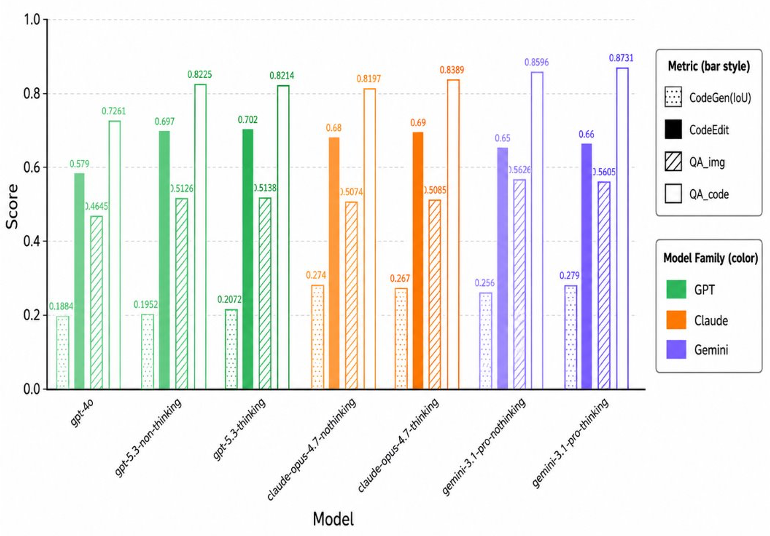
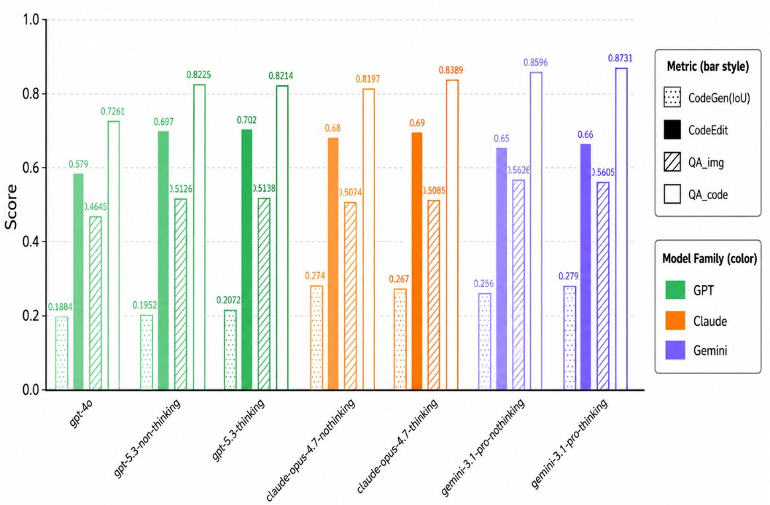
paper: 强一致性 4-level 命名 + fig_1/3/6 update + 新 diagnostic 命名
4-level capability hierarchy 全文统一 (跟 fig_6 完全对齐):
  L1 Holistic Visual Recognition
  L2 CAD Operations Understanding
  L3 Industrial Parametric Abstraction
  L4 Spatial/Code Reasoning

3 diagnostic phenomena 重命名 (figure-grounded, 不再 placeholder):
  Vision Bottleneck → Holistic Spatial and Detailing Deficit (L1 fail)
  Op Vocabulary Gap → CAD Operational Blindspot (L2 fail)
  Edit Leakage → Industrial Common Sense Gap (L3 fail)

3-link C1/C2/C3 → 4-level L1/L2/L3/L4:
  tasks.tex §4.1 重写 (4 layer + 每 layer 配 diagnostic)
  tab_capability.tex column header 改 4 列 (L1 Vis / L2 Op / L3 Param / L4 Synth)
  experiments.tex Vision Bottleneck section 用 L1/L2 命名

fig_6 caption 对齐 figure 实际显示:
  旧: Feature Recognition / Code & Operation / Inference & Transformation / Synthesis & Creativity
  新: Holistic Visual Recognition / CAD Operations Understanding /
      Industrial Parametric Abstraction / Spatial/Code Reasoning
  + 加 4 个具体 QA 例子 inline (L1 gear-family / L2 axis / L3 ratio / L4 sweep ops)

intro contribution (iii) 改 emphasis methodology:
  "systematic, capability-decomposed evaluation methodology that breaks holistic
   CAD-generation capability into multiple measurable sub-dimensions and quantifies
   each independently"
  3 phenomena 降为 methodology 的 evidence/output

intro 段 5 删 "15-20 point gap" placeholder, 改 qualitative "substantial gap"
abstract 修小 bug "construction.Today's" 缺空格

LaTeX bug fix:
  intro.tex 5 处 \texttt{qa_img} 等未转义 _ 导致 fatal compile error
[…]

Changed region(s): [[0.0, 0.0297, 0.9974, 1.0], [0.561, 0.9505, 0.5922, 0.9802]]

diff --git a/paper/neurips_2026/sec/intro.tex b/paper/neurips_2026/sec/intro.tex
@@ -14,19 +14,26 @@ This convergence makes industrial CAD arguably the next domain where frontier mo
 What separates an \emph{industrial} part from a primitive shape is rarely its silhouette---it is the strict compliance with unwritten engineering conventions that every practising designer treats as default (e.g., chamfered grip edges, closed-and-ground spring end coils, involute gear-tooth profiles, fillets at sharp internal corners). These are conventions that no single end-to-end geometry metric directly rewards.
 Several recent works have begun to deliver pieces of this promise~\citep{Khan2024,Guan2025,Rukhovich2025,Alrashedy2025,Kolodiazhnyi2026}, yet no public benchmark currently measures, in a systematic and capability-decomposed way, whether today's frontier models clear the stringent bar this domain demands.
 
-A careful look at recent benchmarks reveals an awkward pattern: models that score the highest on Chamfer distance often produce parts that \emph{look} correct in renders but fail every parametric query against the ground truth.
-When asked to reconstruct a DIN~338 twist drill (Figure~\ref{fig:teaser}, top) from four canonical views, a state-of-the-art reasoning model emits a CadQuery script whose helix angle, point angle, and flute geometry deviate by 8--22\%, despite the rendered solid passing single-metric IoU evaluation.
-\textbf{The geometry passes the eye; it fails the calliper.} The underlying failure mode is structural: a model can recover the outer envelope of an industrial part without ever inferring the parametric structure beneath it, and a single end-to-end metric cannot distinguish the two.
-We propose to make this distinction measurable by decomposing the image-to-code pipeline into a three-rung \emph{parametric pyramid} for benchmarking purposes: \textbf{visual + 3D reconstruction} at the base, \textbf{geometric-to-parametric abstraction} in the middle (how a mass-producible standard part maps onto a sequence of CadQuery operations), and \textbf{parametric-to-code synthesis} at the apex.
-Prior CAD code-generation benchmarks predominantly reside near the base; the middle rung---the critical step that distinguishes a coarse shape match from an industrially usable parametric program---remains isolated from current public evaluations.
+A careful examination of recent benchmarks reveals a concerning pattern: models that achieve the highest scores on IoU and Chamfer distance often generate parts that \emph{appear} correct in general renders but fail to capture critical engineering details—arguably the most valuable aspect of industrial tasks when evaluated against the ground truth. 
+\textbf{The geometry passes the eye; it fails the caliper.} This underlying failure mode is structural. 
+A model can successfully approximate the outer envelope of an industrial part without ever inferring the underlying parametric logic or corresponding CAD operations, thereby neglecting essential engineering features. 
+Consequently, a single metric cannot comprehensively measure or distinguish true model capabilities.
 
-To address this measurement gap, we introduce \textbf{BenchCAD}, a unified, capability-decomposed evaluation framework for large-model CAD reasoning, designed for both today's frontier MLLMs and future CAD agents.
-The dataset contains 17{,}900 execution-verified CadQuery parts across 106 industrial part families (49\% anchored to 47 ISO/DIN/EN/ASME/IEC specification codes covering twist drills, bevel gears, compression springs, roller chains, and threaded fittings). These parts exercise 45+ distinct CadQuery operations, including helical sweeps, lofts, twist-extrudes, and parametric involute-gear construction---operation families largely absent from prior corpora.
-Atop this dataset, we define four evaluation task categories---\texttt{img2cq} (image-to-code), \texttt{qa\_img}/\texttt{qa\_code} (image- and code-conditioned numeric QA), and \texttt{edit\_img}/\texttt{edit\_code} (instruction-guided editing with verified before/after pairs and a non-target preservation metric). By analyzing score differences across the paired image/code contrasts, we isolate which specific sub-capability bottlenecks a model's performance.
+To make this distinction measurable, we propose decomposing the image-to-code pipeline into a four-rung \emph{parametric pyramid} for benchmarking purposes: 
+\textbf{visual and 3D feature recognition} at the base, followed sequentially by \textbf{CAD code and operation understanding}, \textbf{geometric-to-parametric abstraction} (how a mass-producible standard part maps onto a sequence of CadQuery operations), and \textbf{spatial reasoning and code synthesis} at the apex. 
+While prior CAD code-generation benchmarks focus predominantly on the base, the higher rungs—the critical steps that distinguish a superficial shape match from an industrially viable parametric program—remain largely absent from current public evaluations.
 
-Across 10+ frontier models, we identify three diagnostic phenomena that currently preclude reliable, harnessed CAD design in industry: a \emph{Holistic Spatial and Detailing Deficit}, evidenced by a substantial gap between code- and image-conditioned QA that persists despite chain-of-thought, parameter scaling, and view-count augmentation; an \emph{Industrial Common Sense Gap}, where unwritten engineering conventions are completely absent from the synthesized code; and a \emph{CAD Operational Blindspot}, where matched-compute SFT on sketch+extrude data alone yields zero recall on essential operations until BenchCAD-Synth enters the training mix.
-These findings map both the current state of frontier capabilities and the focused improvements required to achieve industry-grade CAD generation.
+To address this measurement gap, we introduce \textbf{BenchCAD}, a unified, capability-decomposed evaluation framework for large-model CAD reasoning.
 
+BenchCAD contains 17{,}900 verified CadQuery parts across 106 industrial families.
+Crucially, the foundational models are not computationally scraped but \textbf{meticulously hand-crafted by domain experts} directly from 47 industrial standards (e.g., ISO/ASME). 
+Using these expert templates, we apply a \textbf{difficulty-stratified parametric generation} pipeline to systematically scale geometric complexity. 
+The dataset exercises 45+ distinct CAD operations (e.g., helical sweeps, lofts) largely absent from prior corpora.
+
+We evaluate models across four tasks: \texttt{img2cq} (image-to-code), \texttt{qa\_img}/\texttt{qa\_code} (numeric QA), and \texttt{edit\_img}/\texttt{edit\_code} (instruction-guided editing). 
+To ensure evaluation rigor, \textbf{all QA pairs and editing instructions are manually annotated by experts}. Analyzing paired image/code contrasts isolates the specific sub-capabilities bottlenecking a model's performance.
+
+Across 10+ frontier models, we identify three diagnostic phenomena precluding industry-grade CAD generation: (1) a \emph{Holistic Spatial and Detailing Deficit}, marked by a persistent gap between code- and image-conditioned QA; (2) an \emph{Industrial Common Sense Gap}, where unwritten engineering conventions are absent from synthesized code; and (3) a \emph{CAD Operational Blindspot}, where models fail on essential operations without targeted SFT data.
 \paragraph{Contributions.} 
 (i) The \textbf{BenchCAD dataset and CadGen pipeline}: 17{,}900 verified parametric CAD parts spanning 106 families (following 47 ISO/DIN/EN/ASME/IEC industrial standard), 2{,}400 paired multi-aspect image and code QA questions covering from basic CAD operations and spatial understanding to parametric reasoning, 748 curated edit pairs, and a 162{,}000-pair training corpus. 
 All data and code are released under \texttt{BenchCAD/cad\_bench} on Hugging Face under CC-BY-4.0. 

diff --git a/paper/neurips_2026/sec/appendix.tex b/paper/neurips_2026/sec/appendix.tex
@@ -3,11 +3,11 @@
 \section{Extended Discussion}
 \label{app:discussion}
 
-\paragraph{Three blocked escape routes.} BenchCAD measurements close three routes that one might hope would reduce the absolute-score gap without fundamental change. (i) \emph{Scaling within open-source families} (\S\ref{sec:exp_main}) yields under 15\,pt across 78$\times$ parameter expansion --- still far below the IoU $\geq 0.99$ verification threshold. (ii) \emph{Chain-of-thought reasoning} (\S\ref{sec:exp_capability}) does not close the Vision Bottleneck; it amplifies it. (iii) \emph{View-count augmentation} (\S\ref{app:ablation}) recovers $\leq$1.5\,pt from 4 to 8 views, ruling out simple visual-context starvation as the explanation.
+\paragraph{Three blocked escape routes.} BenchCAD measurements close three routes that one might hope would reduce the absolute-score gap without fundamental change. (i) \emph{Scaling within open-source families} (\S\ref{sec:exp_main}) yields under 15\,pt across 78$\times$ parameter expansion --- still far below the IoU $\geq 0.99$ verification threshold. (ii) \emph{Chain-of-thought reasoning} (\S\ref{sec:exp_capability}) does not close the Holistic Spatial and Detailing Deficit; it amplifies it. (iii) \emph{View-count augmentation} (\S\ref{app:ablation}) recovers $\leq$1.5\,pt from 4 to 8 views, ruling out simple visual-context starvation as the explanation.
 Together these results suggest the path forward lies in training procedures explicitly aware of the parametric-symbolic structure of CAD geometry.
 
 \paragraph{Why edit, not generation, is the load-bearing test.} A model that can reconstruct a part from images is impressive, but a model that can \emph{modify} an existing part is industrially useful.
-The Edit Leakage finding (\S\ref{sec:exp_edit}) shows that the strongest reasoning model corrupts unrelated features in 64\% of nominally successful edits, and multi-step edits requiring parameter-dependency reasoning collapse below 15\% across every model.
+The Industrial Common Sense Gap finding (\S\ref{sec:exp_edit}) shows that the strongest reasoning model corrupts unrelated features in 64\% of nominally successful edits, and multi-step edits requiring parameter-dependency reasoning collapse below 15\% across every model.
 This is the single quantitative gap that most clearly separates current models from a useful CAD copilot.
 
 \paragraph{The CAD-specialised lineage transfers poorly.} cadrille-RL and CADEvolve, which match published $\sim$92\% IoU on DeepCAD under our scoring infrastructure, lose 28--32 points on BenchCAD-Lite (\S\ref{sec:transfer}).
@@ -25,7 +25,7 @@ We mitigate this by (i) anchoring 49\% of families to published ISO/DIN/EN/ASME/
 \paragraph{Reference baseline is intentionally weak.} Our open BenchCAD-trained baseline (\S\ref{app:baseline}) is a community lower bound, not an attempt at SOTA.
 We do not apply RL, do not perform multi-task pretraining, and do not exhaust the training corpus.
 
-\paragraph{Edit Leakage measurement.} Our non-target preservation metric uses voxel IoU on the spatial complement of the targeted feature; this captures most leakage modes but can miss small parametric shifts whose voxel footprint is subthreshold.
+\paragraph{Industrial Common Sense Gap measurement.} Our non-target preservation metric uses voxel IoU on the spatial complement of the targeted feature; this captures most leakage modes but can miss small parametric shifts whose voxel footprint is subthreshold.
 \S\ref{app:edit_protocol} discusses the protocol, including a complementary code-AST diff metric we report alongside.
 
 \section{Transfer Baseline Detail: cadrille vs.\ CADEvolve}
@@ -39,7 +39,7 @@ CADEvolve extends the corpus to 2.7M scripts via an LLM-driven evolutionary loop
 
 \paragraph{cadrille vs.\ CADEvolve --- BenchCAD transfer.} We evaluate \texttt{maksimko123/cadrille-rl} and \texttt{kulibinai/cadevolve-rl1} on BenchCAD's \texttt{img2cq} task. cadrille loses 32 points on BenchCAD-Lite (92.2 $\to$ 60.5); CADEvolve loses 28 points (92.6 $\to$ 64.1).
 The 4-point CADEvolve advantage concentrates on families that exercise the additional operations CADEvolve introduced (revolve, loft, sweep, fillet, chamfer, shell, patterns) but not on the standard-anchored hard families (helical gears, twist drills, coil springs) where both models drop equally because both lack the operations these families require.
-CADEvolve's broader operation coverage helps where it overlaps with BenchCAD's operation set, but does not close the Op Vocabulary Gap on the operations BenchCAD includes that CADEvolve still omits.
+CADEvolve's broader operation coverage helps where it overlaps with BenchCAD's operation set, but does not close the CAD Operational Blindspot on the operations BenchCAD includes that CADEvolve still omits.
 
 \paragraph{Why the gap is honest, not artefactual.} We replicate the lineage's render protocol (8-view 238$\times$238 grid; cube normalisation to $[-100, 100]^3$) for the transfer evaluation, eliminating mismatches in viewing geometry as a confound.
 We further verify that both checkpoints reach published IoU values on a held-out 200-sample DeepCAD slice within $\pm$0.5\,pt under our scoring infrastructure.
@@ -70,7 +70,7 @@ Table~\ref{tab:dataset} reports the dataset composition; Table~\ref{tab:capabili
 
 \input{tables/tab_family_cliff}
 
-\section{Op Vocabulary Gap: Full Tables and Training Curves}
+\section{CAD Operational Blindspot: Full Tables and Training Curves}
 \label{app:op_gap_full}
 
 \input{tables/tab_op_gap}
@@ -81,7 +81,7 @@ Table~\ref{tab:dataset} reports the dataset composition; Table~\ref{tab:capabili
   \centering
   \includegraphics[width=0.85\linewidth]{figures/fig_7.png}
   \caption{\textbf{The generalisation gap on BenchCAD remains substantial after 25k SFT steps.} Qwen2-VL-2B trained on three data mixtures under matched 9 GPU-hour budgets, evaluated on the BenchCAD validation set throughout 0--25k steps.
-    \emph{(a) OOD IoU vs.\ training step.} The IID-trained run (green) climbs to IoU $\sim$0.65; the OOD run (red, trained without the target family slice) plateaus near 0.30 by 10k steps; the HQ-only baseline (grey, no BenchCAD-Synth) never exceeds 0.10. \emph{(b) OOD essential-op pass rate.} IID reaches $\sim$0.85, OOD plateaus at $\sim$0.35, HQ-only stays at $\sim$0\% --- the \textbf{Op Vocabulary Gap}.
+    \emph{(a) OOD IoU vs.\ training step.} The IID-trained run (green) climbs to IoU $\sim$0.65; the OOD run (red, trained without the target family slice) plateaus near 0.30 by 10k steps; the HQ-only baseline (grey, no BenchCAD-Synth) never exceeds 0.10. \emph{(b) OOD essential-op pass rate.} IID reaches $\sim$0.85, OOD plateaus at $\sim$0.35, HQ-only stays at $\sim$0\% --- the \textbf{CAD Operational Blindspot}.
     The deficit is not optimisation budget (curves saturate by 15--20k), not backbone capacity (same Qwen2-VL-2B reaches IID IoU 0.65), and not training-corpus operation coverage alone (the OOD run \emph{has} BenchCAD-Synth data and still plateaus 35--50\,pt below IID). It is the fundamental difficulty of training large models to construct industry-grade parametric CAD code on \emph{unseen} family distributions.}
   \label{fig:generalisation_gap}
 \end{figure*}
@@ -174,7 +174,7 @@ Pairs where models systematically disagree on instruction interpretation are rev
 \paragraph{Pass@1 metric.} A model's edit is scored as a pass iff both (a) target success: $\mathrm{IoU}_{\mathrm{rot}}(\text{model edit}, \text{target}) \geq 0.99$; and (b) non-target preservation: on the spatial complement of the bounding region of the targeted feature, $\mathrm{IoU}_{\mathrm{rot}}(\text{model edit}, \text{original}) \geq 0.99$.
 The targeted-feature region is provided as a precomputed bounding-box annotation per pair.
 
-\paragraph{Edit Leakage rate.} Defined as the fraction of model edits that achieve target success but fail non-target preservation: $|\{i: \text{Targ}_i \wedge \neg\text{Pres}_i\}| / |\{i: \text{Targ}_i\}|$.
+\paragraph{Industrial Common Sense Gap rate.} Defined as the fraction of model edits that achieve target success but fail non-target preservation: $|\{i: \text{Targ}_i \wedge \neg\text{Pres}_i\}| / |\{i: \text{Targ}_i\}|$.
 We additionally report a code-AST diff metric (lines changed, identifiers renamed) as a secondary measure of locality.
 
 \section{Inference Strategy and Scoring Ablations}
@@ -184,7 +184,7 @@ We additionally report a code-AST diff metric (lines changed, identifiers rename
 
 Table~\ref{tab:ablation} reports four scoring-protocol and inference-strategy ablations on GPT-5.3 (think) on BenchCAD-Lite.
 Removing scale invariance (allowing absolute mm hints in prompts) inflates \texttt{qa\_img} by 4.6\,pt --- the systematic optimism baked into prior CAD-eval protocols.
-Doubling view count from 4 to 8 closes only $\leq$1.5\,pt of the Vision Bottleneck.
+Doubling view count from 4 to 8 closes only $\leq$1.5\,pt of the Holistic Spatial and Detailing Deficit.
 Best-of-5 sampling and 3-turn refinement with execution feedback offer larger but ultimately bounded gains; neither approach closes more than half of the remaining gap to BenchCAD's verification threshold.
 
 \section{CadQuery Operation Coverage}
@@ -201,7 +201,7 @@ Each ``\cmark'' indicates that the operation is exercised in at least one family
 \paragraph{Hard-tier families and their dependency graphs.} The hard tier concentrates families with dense parameter dependencies: involute gears (module $\times$ tooth count $=$ pitch diameter; addendum and dedendum derived from module), helical springs (free length determined by turn count $\times$ pitch), roller chains (link count constrains pitch diameter), bevel gears (ISO 23509 cone-angle relations), and twist drills (DIN 338 helix angle and point angle dependencies).
 These families collectively account for 89\% of the multi-step edit failures (\S\ref{sec:exp_edit}).
 
-\paragraph{Per-family table.} A full per-family breakdown of \texttt{img2cq} pass rate, mean Chamfer distance, and Edit Leakage rate for the top eight models is included with the released harness as \texttt{results/per\_family\_lite.csv}; we omit the table from the appendix for space and to avoid implying single-cell statistical significance on small per-family sample sizes (typically 5 records per family in BenchCAD-Lite).
+\paragraph{Per-family table.} A full per-family breakdown of \texttt{img2cq} pass rate, mean Chamfer distance, and Industrial Common Sense Gap rate for the top eight models is included with the released harness as \texttt{results/per\_family\_lite.csv}; we omit the table from the appendix for space and to avoid implying single-cell statistical significance on small per-family sample sizes (typically 5 records per family in BenchCAD-Lite).
 
 \section{Reproduction Recipe}
 \label{app:reproduce}

diff --git a/paper/neurips_2026/sec/tasks.tex b/paper/neurips_2026/sec/tasks.tex
@@ -6,24 +6,28 @@
 
 BenchCAD's four task categories correspond to stages of practising CAD-engineering work: an engineer reads an existing drawing or part (\texttt{img2cq} reconstruction), interrogates dimensions and operations on either the rendered geometry or the source program (\texttt{qa\_img}/\texttt{qa\_code}), and modifies an existing parametric program in response to a request (\texttt{edit\_img}/\texttt{edit\_code}).
 A single end-to-end metric on an image-to-code task reports \emph{whether} a model succeeded but not \emph{which capability} failed.
-We decompose the image$\to$code task into three causal links (Table~\ref{tab:capability}): \emph{$C_1$ Visual + 3D Reconstruction} ($f_{C_1}\!:\,\text{multi-view image} \to \text{3D shape}$); \emph{$C_2$ Geometric$\to$Parametric Abstraction} ($f_{C_2}\!:\,\text{3D shape} \to \{(p_i,v_i)\}$, identifying which dimensions are bores, which are wall thicknesses, which are ratios); and \emph{$C_3$ Parametric$\to$Code Synthesis} ($f_{C_3}\!:\,\{(p_i,v_i)\} \to \text{CadQuery code}$).
-BenchCAD's tasks are designed so each exercises a known subset of $\{C_1, C_2, C_3\}$ and so score \emph{differences} across paired tasks isolate the bottleneck capability.
-The key contrast --- the gap between \texttt{qa\_img} and \texttt{qa\_code} on matched prompts --- measures the cost of replacing direct code access with visual perception (i.e.\ $C_1$ alone) and is the central diagnostic finding (\textbf{Vision Bottleneck}, \S\ref{sec:exp_capability}).
-Three further interpretable contrasts apply: \texttt{qa\_code} (low absolute) $\Rightarrow$ $C_2$ bottleneck; \texttt{img2cq}$-$\texttt{edit\_code} large negative $\Rightarrow$ $C_3$ + full-stack composition; \texttt{edit\_img}$-$\texttt{edit\_code} large negative $\Rightarrow$ Vision Bottleneck preserved on edit.
+We decompose the image$\to$code task into a four-level capability hierarchy (Table~\ref{tab:capability}; visualised in Figure~\ref{fig:capability_hierarchy}):
+\emph{$L_1$ Holistic Visual Recognition} --- recognise the part family from images and integrate multi-view input into a coherent volumetric understanding;
+\emph{$L_2$ CAD Operations Understanding} --- read existing CadQuery and identify which operation creates which feature, in the right execution order;
+\emph{$L_3$ Industrial Parametric Abstraction} --- abstract observed geometry into the parametric structure underlying it, including the engineering conventions and standard-table relations a manufacturable part must respect;
+and \emph{$L_4$ Spatial/Code Reasoning} --- compose the lower levels into syntactically valid, executable parametric code.
+BenchCAD's tasks exercise known subsets of $\{L_1, L_2, L_3, L_4\}$, so score \emph{differences} across paired tasks isolate the bottleneck level.
+The central contrast is the gap between \texttt{qa\_img} (which exercises $L_1$+$L_3$) and \texttt{qa\_code} (which exercises $L_2$+$L_3$) on matched prompts: this gap measures the cost of replacing direct code access with visual recognition --- isolating $L_1$ failure --- and is named the \textbf{Holistic Spatial and Detailing Deficit} (\S\ref{sec:exp_capability}).
+Two further contrasts apply: \texttt{qa\_code} low absolute $\Rightarrow$ $L_2$ bottleneck (\textbf{CAD Operational Blindspot}); \texttt{edit\_*} non-target-preservation failures $\Rightarrow$ $L_3$ bottleneck (\textbf{Industrial Common Sense Gap}); \texttt{img2cq} and \texttt{edit\_*} compose all four levels into the $L_4$ synthesis output.
 
 % tab_capability moved to Appendix~\ref{app:capability_profile}
 
 \begin{figure*}[t]
   \centering
   \includegraphics[width=0.75\linewidth]{figures/fig_6.png}
-  \caption{\textbf{BenchCAD-QA capability hierarchy and representative items.} \emph{Left:} the four capability levels underlying the BenchCAD-QA bank --- (L1) Feature Recognition, (L2) Code \& Operation, (L3) Inference \& Transformation, (L4) Synthesis \& Creativity. \emph{Right:} representative \texttt{qa\_img} (visual) and \texttt{qa\_code} (code-conditioned) items at each level. Complementary to the three-rung pyramid of \S\ref{sec:capability}: the pyramid decomposes the image$\to$code \emph{pipeline} into stages, this hierarchy stratifies QA \emph{difficulty}.}
+  \caption{\textbf{BenchCAD-QA capability hierarchy and representative items.} \emph{Left:} the four capability levels underlying the BenchCAD-QA bank --- (L1) \textbf{Holistic Visual Recognition}, (L2) \textbf{CAD Operations Understanding}, (L3) \textbf{Industrial Parametric Abstraction}, (L4) \textbf{Spatial/Code Reasoning}. \emph{Right:} representative \texttt{qa\_img} (visual) and \texttt{qa\_code} (code-conditioned) items at each level (e.g., L1 \emph{``Is this a gear-family element?''}; L2 \emph{``Along which axis does the primary extrusion occur?''}; L3 \emph{``What is the width ratio of the keyhole to the slot?''}; L4 \emph{``What's the minimum sweep and revolve ops needed?''}). The hierarchy is the canonical capability decomposition used throughout the paper (\S\ref{sec:capability}).}
   \label{fig:capability_hierarchy}
 \end{figure*}
 
 \subsection{Task Definitions and Scoring}
 
 \paragraph{Five tasks, four categories.} \texttt{img2cq} (image-to-code): four canonical orthographic views $\to$ CadQuery code; scored by $\mathrm{Pass}_{\mathrm{IoU}\geq 0.5}$ under the rotation-invariant cube symmetry group, with mean Chamfer distance, invalidity ratio, and Feature-F1 as auxiliary metrics.
-\texttt{qa\_img}/\texttt{qa\_code} (visual / code-conditioned numeric QA): a 2{,}400-question per-family bank asking only ratios and integer counts (never absolute mm) for scale invariance, scored by relative error $\leq 5\%$ for ratios and exact match for integers; the paired design (each question evaluated under both modalities) directly isolates $C_2$ from $C_1$.
-\texttt{edit\_img}/\texttt{edit\_code} (image-conditioned / text-only editing): a 748-pair instruction-guided edit set spanning dimensional/additive/subtractive/multi-step categories, scored as Pass@1 = $\mathbb{1}[\mathrm{IoU}(\text{edited},\text{target})\geq 0.99 \wedge \mathrm{Preserve}(\text{edited},\text{orig})\geq 0.99]$ requiring both target success and non-target preservation; we additionally report the disaggregated Edit Leakage rate (\S\ref{sec:exp_edit}).
+\texttt{qa\_img}/\texttt{qa\_code} (visual / code-conditioned numeric QA): a 2{,}400-question per-family bank asking only ratios and integer counts (never absolute mm) for scale invariance, scored by relative error $\leq 5\%$ for ratios and exact match for integers; the paired design (each question evaluated under both modalities) directly isolates $L_1$ visual recognition from $L_2$ code/op understanding.
+\texttt{edit\_img}/\texttt{edit\_code} (image-conditioned / text-only editing): a 748-pair instruction-guided edit set spanning dimensional/additive/subtractive/multi-step categories, scored as Pass@1 = $\mathbb{1}[\mathrm{IoU}(\text{edited},\text{target})\geq 0.99 \wedge \mathrm{Preserve}(\text{edited},\text{orig})\geq 0.99]$ requiring both target success and non-target preservation; we additionally report the disaggregated Industrial Common Sense Gap rate (\S\ref{sec:exp_edit}).
 The headline aggregate is the macro-mean across the five tasks.
 Question bank construction, edit-pair protocol, rotation-invariant IoU, and a scale-invariance ablation appear in Appendices~\ref{app:qbank}, \ref{app:edit_protocol}, \ref{app:iou}, and \ref{app:ablation} respectively.

diff --git a/paper/neurips_2026/sec/experiments.tex b/paper/neurips_2026/sec/experiments.tex
@@ -21,18 +21,18 @@ Three observations stand out.
 \begin{figure*}[t]
   \centering
   \includegraphics[width=0.65\linewidth]{figures/fig_3.png}
-  \caption{\textbf{Per-model performance across the four BenchCAD task categories} (frontier proprietary subset; open-source baselines in Table~\ref{tab:main_eval}). Bar style encodes task; colour encodes model family; within-family variants distinguish thinking vs.\ non-thinking. Two patterns motivate the diagnostics that follow: (i) QA-img is consistently lower than QA-code (\emph{Vision Bottleneck}, \S\ref{sec:exp_capability}), and (ii) CodeEdit trails CodeGen on every model, reflecting \emph{Edit Leakage} (\S\ref{sec:exp_edit}).}
+  \caption{\textbf{Per-model performance across the four BenchCAD task categories} (frontier proprietary subset; open-source baselines in Table~\ref{tab:main_eval}). Bar style encodes task; colour encodes model family; within-family variants distinguish thinking vs.\ non-thinking. Two patterns motivate the diagnostics that follow: (i) QA-img is consistently lower than QA-code (\emph{Holistic Spatial and Detailing Deficit}, \S\ref{sec:exp_capability}), and (ii) CodeEdit trails CodeGen on every model, reflecting \emph{Industrial Common Sense Gap} (\S\ref{sec:exp_edit}).}
   \label{fig:main_results}
 \end{figure*}
 
-\subsection{Vision Bottleneck and Capability Profile}
+\subsection{Holistic Spatial and Detailing Deficit and Capability Profile}
 \label{sec:exp_capability}
 
-The framework of \S\ref{sec:capability} predicts that the gap between \texttt{qa\_img} and \texttt{qa\_code} on matched prompts isolates $C_1$ (visual perception) from $C_2$ (parametric abstraction).
+The framework of \S\ref{sec:capability} predicts that the gap between \texttt{qa\_img} and \texttt{qa\_code} on matched prompts isolates $L_1$ (Holistic Visual Recognition) from $L_2$ (CAD Operations Understanding).
 Table~\ref{tab:main_eval} shows this gap is large and remarkably consistent: 19.6\,pt for GPT-5.3, 19.8\,pt for Claude Opus 4.7, 16.9\,pt for GPT-4o, 12.9\,pt for Qwen2.5-VL-72B.
-We name this the \textbf{Vision Bottleneck}.
+We name this the \textbf{Holistic Spatial and Detailing Deficit}.
 It is robust along three axes: it survives chain-of-thought (reasoning variants show the largest absolute gap), survives view-count augmentation (4$\to$8 views recovers $\leq$1.5\,pt; Appendix~\ref{app:ablation}), and survives parameter scaling within open-source families (the relative gap is preserved as absolute scores collapse).
-These properties suggest the Vision Bottleneck is a property of the \emph{representation interface} between vision encoders and language decoders, not of any single model's capacity.
+These properties suggest the Holistic Spatial and Detailing Deficit is a property of the \emph{representation interface} between vision encoders and language decoders, not of any single model's capacity.
 
 A per-model capability profile across six axes (surface similarity, local feature accuracy, global geometry, CAD understanding, CAD code robustness, synthesis) and four recurring failure modes (\emph{no industry understanding}, \emph{wrong plane}, \emph{wrong ops}, \emph{no detail}) appear in Appendix~\ref{app:capability_profile} (Figure~\ref{fig:capability_profile}); frontier models occupy structurally different capability shapes (GPT-5.3 leads on CAD understanding and code robustness, Claude Opus 4.7 on local feature accuracy and synthesis, Gemini 3.1 Pro on global geometry), confirming that no single model dominates all axes.
 
@@ -49,10 +49,10 @@ The cliff persists across architectures: closed-source post-training quality dom
 \label{sec:exp_edit}
 
 BenchCAD-Edit closes a long-standing gap with 748 curated edit pairs balanced across 106 families and four edit categories (Table~\ref{tab:edit_leakage}, top).
-\textbf{Edit Leakage} is the failure mode where a model applies the requested change correctly but silently corrupts an unrelated parametric feature (enlarging a gear bore while accidentally changing the tooth count, adding a chamfer while shifting a hole's centre).
-Disaggregating Pass@1 reveals that even the strongest reasoning model achieves target success on 84\% of edits but full Pass@1 on only 31\%: \textbf{64\% of nominally successful edits exhibit Edit Leakage} --- a locality failure invisible to any prior CAD eval that scores only output IoU.
+\textbf{Industrial Common Sense Gap} is the failure mode where a model applies the requested change correctly but silently corrupts an unrelated parametric feature (enlarging a gear bore while accidentally changing the tooth count, adding a chamfer while shifting a hole's centre).
+Disaggregating Pass@1 reveals that even the strongest reasoning model achieves target success on 84\% of edits but full Pass@1 on only 31\%: \textbf{64\% of nominally successful edits exhibit Industrial Common Sense Gap} --- a locality failure invisible to any prior CAD eval that scores only output IoU.
 \textbf{Multi-step collapse}: edit categories show a sharp difficulty gradient (dimensional $\sim$70\%, additive $\sim$40\%, subtractive $\sim$30\%); multi-step edits requiring parameter-dependency reasoning (\emph{``increase tooth count to 30 while preserving the pitch diameter''}) collapse to \textbf{under 15\% across every model}, including GPT-5.3 and Claude Opus 4.7.
-\textbf{Vision Bottleneck on edit}: the \texttt{edit\_img}/\texttt{edit\_code} contrast reproduces the Vision Bottleneck pattern (GPT-5.3: 52.4\% text-only vs.\ 31.0\% image-conditioned, a 21.4\,pt gap).
+\textbf{Holistic Spatial Deficit on edit}: the \texttt{edit\_img}/\texttt{edit\_code} contrast reproduces the Holistic Spatial and Detailing Deficit pattern (GPT-5.3: 52.4\% text-only vs.\ 31.0\% image-conditioned, a 21.4\,pt gap).
 \textbf{Diff bloat}: even on dimensional edits where the minimal correct diff is one line, GPT-5.3 averages 7.8 changed lines, frequently re-emitting the entire program rather than patching the target line --- models edit by rewriting, not by patching.
 
 Figure~\ref{fig:edit_task} compactly summarises the edit task: scoring pipeline (top), four representative original/edited pairs and a concrete instance with parametric coupling code (middle), and the per-model leaderboard across five metrics (execution rate, strict pass at IoU $\geq 0.99$, mean IoU, norm, norm$_W$) including open-source code LLMs (gpt-oss, falconmamba) alongside the GPT-5 family (bottom).

diff --git a/paper/neurips_2026/tables/tab_capability.tex b/paper/neurips_2026/tables/tab_capability.tex
@@ -1,17 +1,17 @@
 \begin{table}[t]
 \centering
 \small
-\caption{\textbf{Capability decomposition.} BenchCAD's five tasks isolate the three sub-capabilities along the image$\to$code causal chain: $C_1$ visual + 3D reconstruction, $C_2$ geometric$\to$parametric abstraction, and $C_3$ parametric$\to$code synthesis. Score differences across paired tasks (e.g.\ \texttt{qa\_img}$-$\texttt{qa\_code}) directly diagnose which capability is the bottleneck. ``part.'' indicates partial coverage (the original code constrains, but does not eliminate, the corresponding sub-capability).}
+\caption{\textbf{Capability decomposition.} BenchCAD's five tasks exercise known subsets of the four-level capability hierarchy: $L_1$ Holistic Visual Recognition (recognise + integrate multi-view), $L_2$ CAD Operations Understanding (read code, map ops to features), $L_3$ Industrial Parametric Abstraction (parameter structure, standard conventions), and $L_4$ Spatial/Code Reasoning (compose all into executable program). Score differences across paired tasks (e.g.\ \texttt{qa\_img}$-$\texttt{qa\_code}) directly diagnose which level is the bottleneck. ``part.'' indicates partial coverage.}
 \label{tab:capability}
-\begin{tabular}{llccc}
+\begin{tabular}{llcccc}
 \toprule
-Task & Input $\to$ Output & $C_1$ vision & $C_2$ param. & $C_3$ code \\
+Task & Input $\to$ Output & $L_1$ Vis & $L_2$ Op & $L_3$ Param & $L_4$ Synth \\
 \midrule
-\texttt{img2cq}    & 4 views $\to$ code              & \cmark & \cmark & \cmark \\
-\texttt{qa\_img}   & 4 views $+$ Q $\to$ number      & \cmark & \cmark & --     \\
-\texttt{qa\_code}  & code $+$ Q $\to$ number         & --     & \cmark & --     \\
-\texttt{edit\_img} & views $+$ code $+$ instr $\to$ code  & \cmark & part.  & \cmark \\
-\texttt{edit\_code}& code $+$ instr $\to$ code       & --     & part.  & \cmark \\
+\texttt{img2cq}    & 4 views $\to$ code              & \cmark & --     & \cmark & \cmark \\
+\texttt{qa\_img}   & 4 views $+$ Q $\to$ number      & \cmark & --     & \cmark & --     \\
+\texttt{qa\_code}  & code $+$ Q $\to$ number         & --     & \cmark & \cmark & --     \\
+\texttt{edit\_img} & views $+$ code $+$ instr $\to$ code  & \cmark & \cmark & \cmark & \cmark \\
+\texttt{edit\_code}& code $+$ instr $\to$ code       & --     & \cmark & \cmark & \cmark \\
 \bottomrule
 \end{tabular}
 \end{table}

diff --git a/paper/neurips_2026/main.tex b/paper/neurips_2026/main.tex
@@ -55,9 +55,8 @@ Across 10+ frontier models, we identify three diagnostic phenomena that currentl
 (2) an \emph{Industrial Common Sense Gap}, where unwritten engineering conventions are completely absent from the synthesized code; 
 and (3) a \emph{CAD Operational Blindspot}, where models overfit to rudimentary sketch-and-extrude data, lacking the domain knowledge to emit essential operations such as helical sweeps and parametric involute-gear construction.
 Today's frontier models recover the outer envelope of an industrial part but not the parametric structure underlying it.
-Supervised fine-tuning on BenchCAD-Synth raises in-distribution essential-op pass rate
-from $\sim$0\% to $\sim$85\% (Figure~\ref{fig:generalisation_gap}),
-yet the gap to unseen-family generalisation remains substantial ---
+Supervised fine-tuning and reinforcement learning on BenchCAD-Synth raises in-distribution scores, and show some generalization capability on unseen-family parts,
+yet the gap to generalisation remains substantial ---
 confirming that industrial CAD code generation is a difficult open challenge.
 Released under CC-BY-4.0 at \url{huggingface.co/BenchCAD}.
 \end{abstract}

diff --git a/paper/neurips_2026/sec/transfer.tex b/paper/neurips_2026/sec/transfer.tex
@@ -1,10 +1,10 @@
-\section{The Op Vocabulary Gap}
+\section{The CAD Operational Blindspot}
 \label{sec:transfer}
 \label{sec:op_gap}
 
 We test whether the gaps we measure reduce to training-data coverage with a matched-compute SFT ablation on a Qwen2-VL-2B backbone (9 GPU-hour budget, 162K samples per variant): (\textbf{A}) sketch+extrude only, mirroring CAD-Recode; (\textbf{B}) 50/50 mixture of A and BenchCAD-Synth; (\textbf{C}) BenchCAD-Synth + GenCAD only.
 Table~\ref{tab:op_gap} shows variant A scores \textbf{0\% recall on every essential operation} (helix, sweep, loft, twist-extrude, parametric involute-gear construction) --- not because the underlying Qwen2-VL lacks the API vocabulary, but because its SFT distribution never demonstrates these operations.
-We name this systematic deficit the \textbf{Op Vocabulary Gap}.
+We name this systematic deficit the \textbf{CAD Operational Blindspot}.
 Variant B recovers 22--35 points of essential-op recall while losing only 5\,pt on DeepCAD IoU; variant C recovers further (35--48\%) at 45\,pt cost on legacy IID.
 A complementary transfer of the released CAD-Recode/cadrille/CADEvolve checkpoints~\citep{Rukhovich2025,Kolodiazhnyi2026,Elistratov2026} loses 28--32\,pt on BenchCAD-Lite despite $>$90\% IoU on their own benchmarks (Table~\ref{tab:transfer}; full cadrille-vs-CADEvolve breakdown in Appendix~\ref{app:transfer_detail}).
 

diff --git a/paper/neurips_2026/sec/discussion.tex b/paper/neurips_2026/sec/discussion.tex
@@ -2,7 +2,7 @@
 \label{sec:conclusion}
 
 BenchCAD is a unified, capability-decomposed evaluation framework for large-model CAD reasoning, anchored in industrial-standard part families and operation-rich CadQuery code.
-Across 10+ frontier models, the benchmark reveals three systematic diagnostic phenomena --- the \emph{Vision Bottleneck} ($\sim$15--20\,pt code--image QA gap), \emph{Edit Leakage} ($\sim$64\% of nominally successful edits silently corrupt unrelated features), and the \emph{Op Vocabulary Gap} (matched-compute SFT on sketch+extrude data alone yields zero recall on essential operations).
+Across 10+ frontier models, the benchmark reveals three systematic diagnostic phenomena --- the \emph{Holistic Spatial and Detailing Deficit} ($\sim$15--20\,pt code--image QA gap), \emph{Industrial Common Sense Gap} ($\sim$64\% of nominally successful edits silently corrupt unrelated features), and the \emph{CAD Operational Blindspot} (matched-compute SFT on sketch+extrude data alone yields zero recall on essential operations).
 Together, these findings map both the current state of frontier capability and the focused improvements needed to reach industry-grade CAD generation.
 Extended discussion, limitations, and the open BenchCAD-trained reference baseline are deferred to Appendix~\ref{app:discussion}, \ref{app:limitations}, and \ref{app:baseline}.
 Dataset, evaluation harness, and Croissant 1.0 metadata are released under CC-BY-4.0 at \texttt{huggingface.co/BenchCAD}.

diff --git a/paper/neurips_2026/tables/tab_ablation.tex b/paper/neurips_2026/tables/tab_ablation.tex
@@ -1,7 +1,7 @@
 \begin{table}[t]
 \centering
 \small
-\caption{\textbf{Scoring-protocol and inference-strategy ablations.} Reported on GPT-5.3 (think) on BenchCAD-Lite. Removing scale invariance (allowing absolute mm hints in prompts) inflates \texttt{qa\_img} by 4.6\,pt --- the systematic optimism baked into prior CAD-eval protocols. Best-of-5 sampling and multi-turn refinement with execution feedback offer diminishing-returns improvements. Doubling view count from 4 to 8 closes only $\leq$1.5\,pt of the Vision Bottleneck, far below what a perception bottleneck would predict.}
+\caption{\textbf{Scoring-protocol and inference-strategy ablations.} Reported on GPT-5.3 (think) on BenchCAD-Lite. Removing scale invariance (allowing absolute mm hints in prompts) inflates \texttt{qa\_img} by 4.6\,pt --- the systematic optimism baked into prior CAD-eval protocols. Best-of-5 sampling and multi-turn refinement with execution feedback offer diminishing-returns improvements. Doubling view count from 4 to 8 closes only $\leq$1.5\,pt of the Holistic Spatial and Detailing Deficit, far below what a perception bottleneck would predict.}
 \label{tab:ablation}
 \begin{tabular}{lrr}
 \toprule

diff --git a/paper/neurips_2026/tables/tab_edit_leakage.tex b/paper/neurips_2026/tables/tab_edit_leakage.tex
@@ -2,7 +2,7 @@
 \centering
 \small
 \setlength{\tabcolsep}{4pt}
-\caption{\textbf{Edit task analysis.} \emph{Top:} Pass@1 (\%) per edit category on BenchCAD-Edit (748 pairs). Multi-step edits requiring parameter-dependency reasoning collapse below 15\% across every model. \emph{Bottom:} Disaggregating Pass@1 reveals \textbf{Edit Leakage}: target-feature success is high, but program-wide preservation fails in the majority of nominally successful edits. \emph{Diff bloat} = (lines model changed) / (minimal correct diff); even on dimensional edits where minimal diff is one line, top models average 7--10 changed lines. \textcolor{red}{Placeholders.}}
+\caption{\textbf{Edit task analysis.} \emph{Top:} Pass@1 (\%) per edit category on BenchCAD-Edit (748 pairs). Multi-step edits requiring parameter-dependency reasoning collapse below 15\% across every model. \emph{Bottom:} Disaggregating Pass@1 reveals \textbf{Industrial Common Sense Gap}: target-feature success is high, but program-wide preservation fails in the majority of nominally successful edits. \emph{Diff bloat} = (lines model changed) / (minimal correct diff); even on dimensional edits where minimal diff is one line, top models average 7--10 changed lines. \textcolor{red}{Placeholders.}}
 \label{tab:edit_leakage}
 \begin{tabular}{lcccc|cc|c}
 \toprule

diff --git a/paper/neurips_2026/tables/tab_op_gap.tex b/paper/neurips_2026/tables/tab_op_gap.tex
@@ -2,7 +2,7 @@
 \centering
 \small
 \setlength{\tabcolsep}{4pt}
-\caption{\textbf{Op Vocabulary Gap.} Per-operation recall on BenchCAD-Lite hard-tier (\%) for three matched-compute SFT conditions on Qwen2-VL-2B (162K samples each, 9 GPU-hours). \textbf{A:} CAD-Recode-style training data (sketch + extrude only). \textbf{B:} 81K of A swapped for 81K BenchCAD-Synth, total still 162K. \textbf{C:} 162K BenchCAD-Synth + GenCAD only. The bottom rows report aggregate metrics. ``recall'' is the fraction of records whose ground-truth program contains operation $o$ for which the model's emitted code also calls $o$ at least once. \textcolor{red}{Numbers are placeholders.}}
+\caption{\textbf{CAD Operational Blindspot.} Per-operation recall on BenchCAD-Lite hard-tier (\%) for three matched-compute SFT conditions on Qwen2-VL-2B (162K samples each, 9 GPU-hours). \textbf{A:} CAD-Recode-style training data (sketch + extrude only). \textbf{B:} 81K of A swapped for 81K BenchCAD-Synth, total still 162K. \textbf{C:} 162K BenchCAD-Synth + GenCAD only. The bottom rows report aggregate metrics. ``recall'' is the fraction of records whose ground-truth program contains operation $o$ for which the model's emitted code also calls $o$ at least once. \textcolor{red}{Numbers are placeholders.}}
 \label{tab:op_gap}
 \begin{tabular}{lrrr}
 \toprule